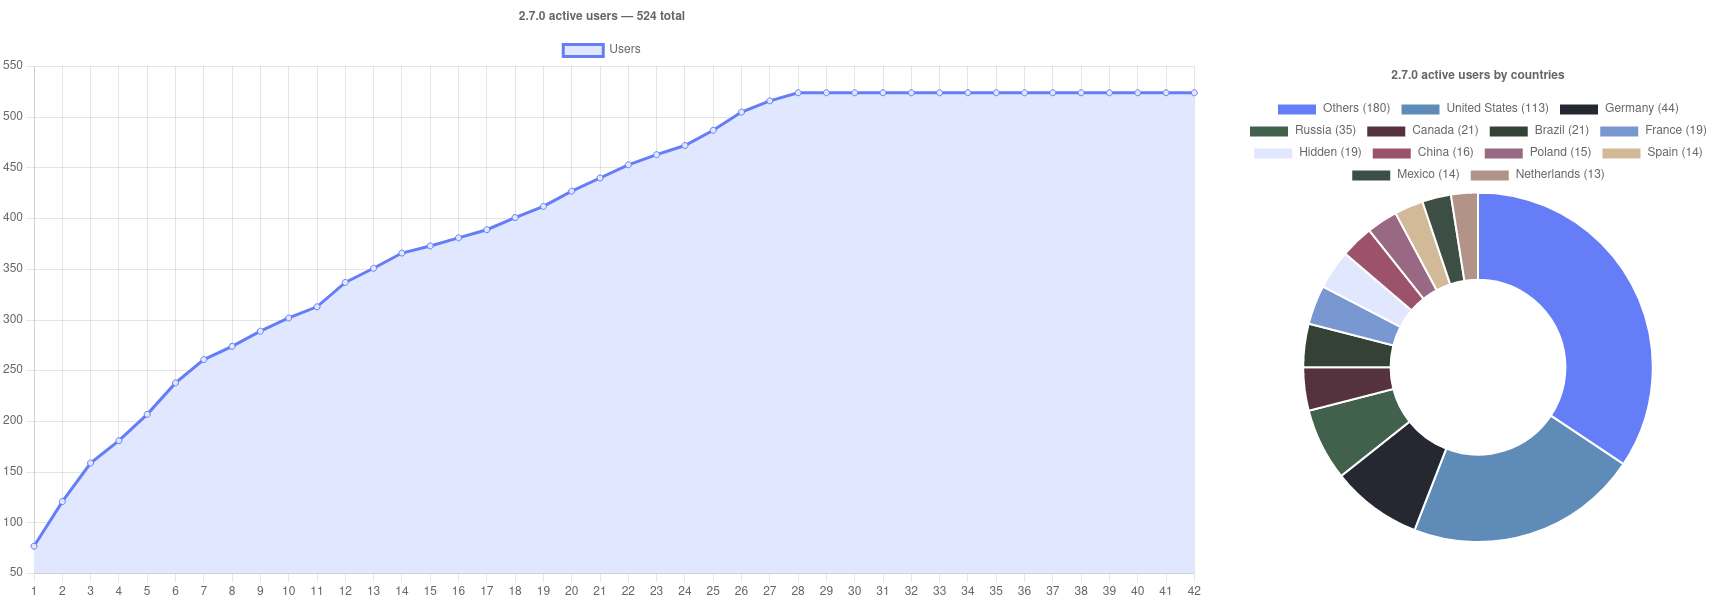
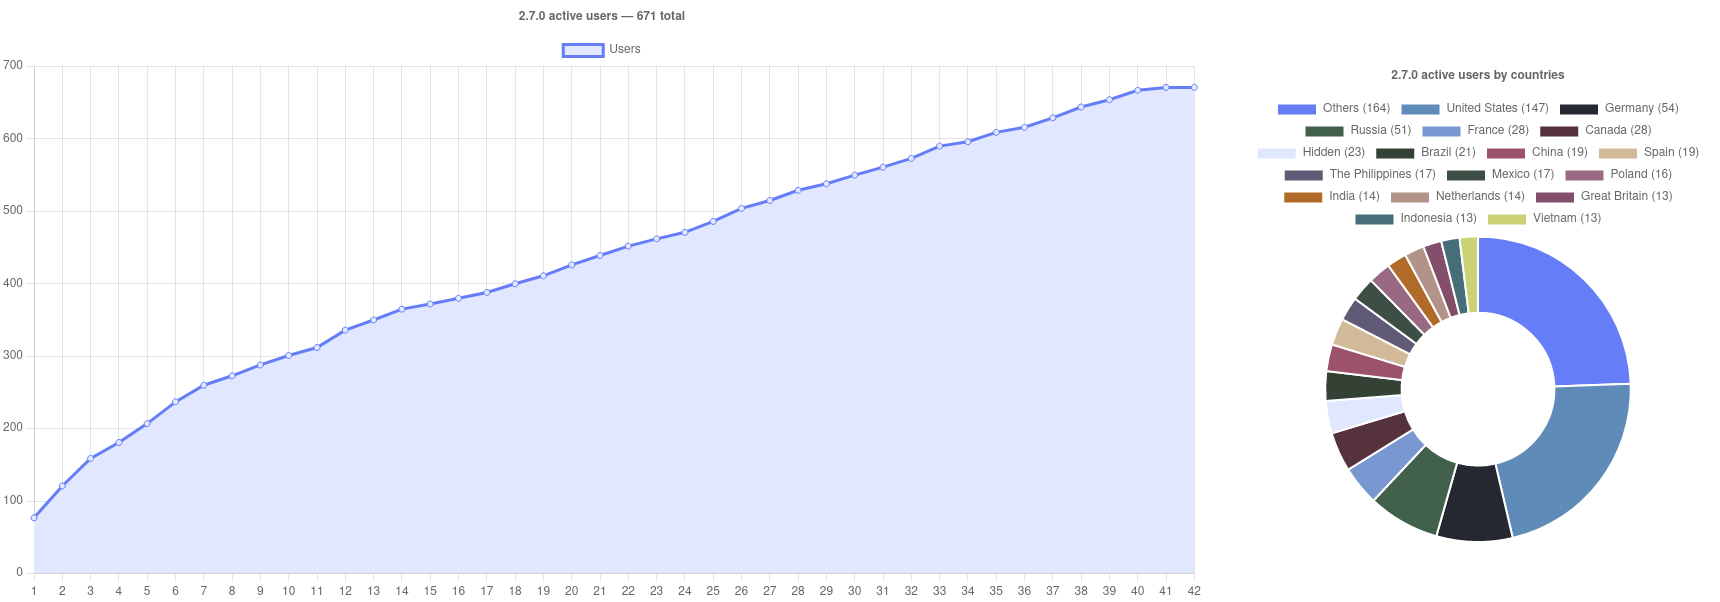
Updated 2.7 stats and patch status

diff --git a/README.md b/README.md
@@ -69,7 +69,7 @@ field in your `config.yaml` file (settings -> launcher folder). If your system u
 
 | Game version | Launcher version | Patch version |
 | :---: | :---: | :---: |
-| 2.8.0 | 2.3.5 | 2.8.0 unavailable ❌ |
+| 2.8.0 | 2.3.5 | 2.8.0 testing ⚠ |
 
 We have our own [An Anime Game](https://discord.gg/ck37X6UWBp) discord server where you can ask any questions
 
@@ -81,7 +81,7 @@ This is our current usage statistics. You can find older ones [here](repository/
 
 <img src="repository/pics/stats/2022/jun29-jul13.png">
 
-### 2.7.0 launcher users — 524 total
+### 2.7.0 launcher users — 671 total
 
 <img src="repository/pics/stats/2.7.0.png">
 
